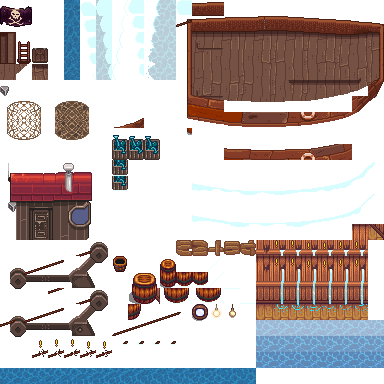
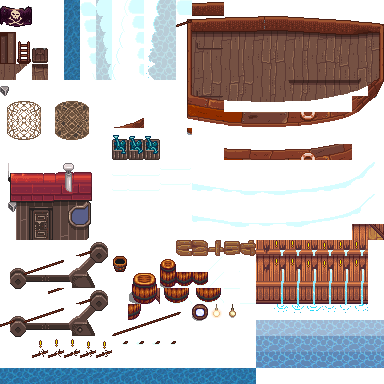
Partial update to TrawlerHull map

Changed region(s): [[0.6562, 0.7812, 0.9688, 0.8438], [0.2812, 0.4062, 0.3438, 0.5]]

diff --git a/FishingTrawler/Framework/GameLocations/TrawlerHull.cs b/FishingTrawler/Framework/GameLocations/TrawlerHull.cs
@@ -14,11 +14,12 @@ namespace FishingTrawler.GameLocations
     internal class TrawlerHull : GameLocation
     {
         private List<Location> _hullHoleLocations;
-        private const int TRAWLER_TILESHEET_INDEX = 2;
+        private const int TRAWLER_TILESHEET_INDEX = 3;
         private const float MINIMUM_WATER_LEVEL_FOR_FLOOR = 5f;
         private const float MINIMUM_WATER_LEVEL_FOR_ITEMS = 20f;
         private const string FLOOD_WATER_LAYER = "FloodWater";
         private const string FLOOD_ITEMS_LAYER = "FloodItems";
+        private const string WATER_SPLASH_LAYER = "WaterSplash";
 
         internal static int waterLevel;
         internal bool areLeaksEnabled;
@@ -128,15 +129,32 @@ namespace FishingTrawler.GameLocations
 
         public override bool checkAction(Location tileLocation, xTile.Dimensions.Rectangle viewport, Farmer who)
         {
+            if (String.IsNullOrEmpty(doesTileHaveProperty(tileLocation.X, tileLocation.Y, "Action", "Buildings")) is false)
+            {
+                if (who.getTileX() != 9 || who.getTileY() != 6)
+                {
+                    return false;
+                }
+            }
+
             return base.checkAction(tileLocation, viewport, who);
         }
 
         public override bool isActionableTile(int xTile, int yTile, Farmer who)
         {
             string actionProperty = doesTileHaveProperty(xTile, yTile, "CustomAction", "Buildings");
-            if (actionProperty != null && actionProperty == "HullHole")
+            if (String.IsNullOrEmpty(actionProperty) is false && actionProperty == "HullHole")
             {
                 if (!IsWithinRangeOfLeak(xTile, yTile, who))
+                {
+                    Game1.mouseCursorTransparency = 0.5f;
+                }
+
+                return true;
+            }
+            else if (String.IsNullOrEmpty(doesTileHaveProperty(xTile, yTile, "Action", "Buildings")) is false)
+            {
+                if (who.getTileX() != 9 || who.getTileY() != 6)
                 {
                     Game1.mouseCursorTransparency = 0.5f;
                 }
@@ -217,7 +235,7 @@ namespace FishingTrawler.GameLocations
                         continue;
                     }
 
-                    string targetLayer = y == 4 ? "Back" : "Buildings";
+                    string targetLayer = y == 4 ? WATER_SPLASH_LAYER : "Buildings";
 
                     AnimatedTile animatedTile = map.GetLayer(targetLayer).Tiles[tileX, y] as AnimatedTile;
                     int tileIndex = animatedTile.TileFrames[0].TileIndex - 1;
@@ -282,7 +300,7 @@ namespace FishingTrawler.GameLocations
                     continue;
                 }
 
-                string targetLayer = y == 4 ? "Back" : "Buildings";
+                string targetLayer = y == 4 ? WATER_SPLASH_LAYER : "Buildings";
 
                 int[] animatedHullTileIndexes = GetHullLeakTileIndexes(map.GetLayer(targetLayer).Tiles[holeLocation.X, y].TileIndex + 1);
                 setAnimatedMapTile(holeLocation.X, y, animatedHullTileIndexes, 60, targetLayer, null, TRAWLER_TILESHEET_INDEX);

diff --git a/FishingTrawler/Framework/UI/TrawlerUI.cs b/FishingTrawler/Framework/UI/TrawlerUI.cs
@@ -48,12 +48,12 @@ namespace FishingTrawler.UI
                 case TrawlerSurface trawlerSurface:
                     x = 41;
                     y = 23;
-                    position = Game1.GlobalToLocal(new Vector2(40.45f, 22.8f) * 64f);
+                    position = Game1.GlobalToLocal(new Vector2(41.5f, 23.7f) * 64f);
                     break;
                 case TrawlerHull trawlerHull:
                     x = 14;
                     y = 1;
-                    position = Game1.GlobalToLocal(new Vector2(13.95f, 0.58f) * 64f);
+                    position = Game1.GlobalToLocal(new Vector2(1.59f, 0.58f) * 64f);
                     break;
                 case TrawlerCabin trawlerCabin:
                     x = 8;

diff --git a/FishingTrawler/Framework/Patches/xTile/LayerPatch.cs b/FishingTrawler/Framework/Patches/xTile/LayerPatch.cs
@@ -47,6 +47,9 @@ namespace FishingTrawler.Framework.Patches.xTiles
                     floodLayer.Draw(displayDevice, mapViewport, displayOffset, wrapAround, pixelZoom);
 
                     DisplayDevicePatch.Opacity = null;
+
+                    var splashLayer = trawlerHull.Map.GetLayer("WaterSplash");
+                    splashLayer.Draw(displayDevice, mapViewport, displayOffset, wrapAround, pixelZoom);
                 }
                 else if (__instance.Id.Equals("Buildings", StringComparison.OrdinalIgnoreCase) is true)
                 {
